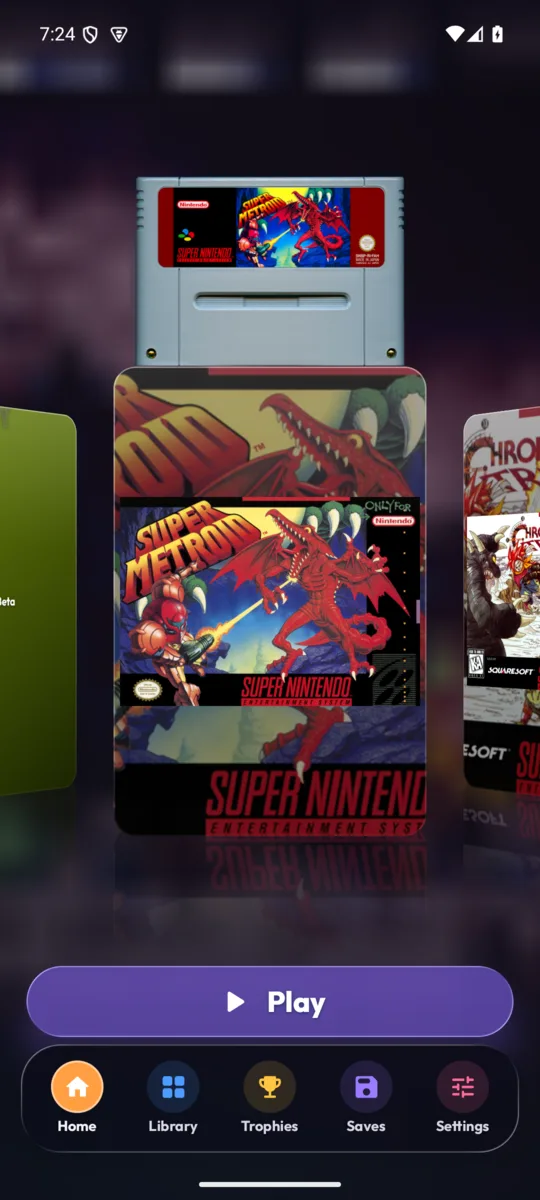
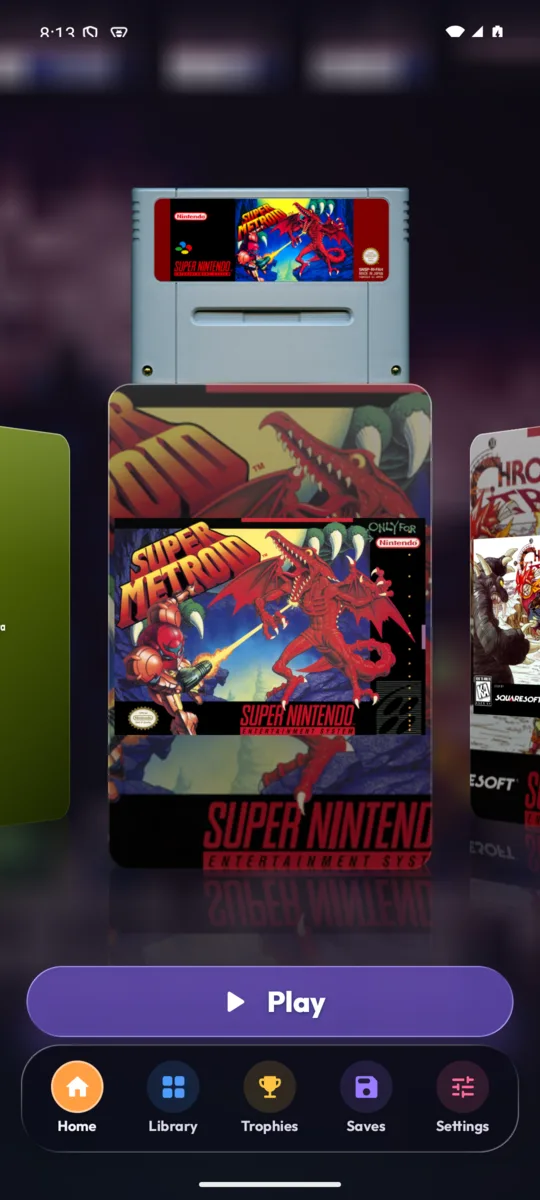
0.15.4: cover flow sits lower, shorter reflection strip

diff --git a/app/src/main/java/io/github/audxius/pillar/ui/screens/HomeCarousel.kt b/app/src/main/java/io/github/audxius/pillar/ui/screens/HomeCarousel.kt
@@ -210,7 +210,7 @@ fun HomeCarouselScreen() {
                     // headroom above for the disc or cartridge that rises out of the centre case.
                     val ratio = LocalSettings.current.coverShape.ratio()
                     val media = LocalSettings.current.coverFlowMedia
-                    val room = if (media) (maxHeight - 20.dp) / (1.12f + MEDIA_RISE) else (maxHeight - 20.dp) / 1.12f
+                    val room = if (media) (maxHeight - 20.dp) / (REFLECTION_ROOM + MEDIA_RISE) else (maxHeight - 20.dp) / REFLECTION_ROOM
                     val h = minOf(room, maxWidth * 0.6f / (ratio * 0.9f))
                     Carousel(ordered, listState, selectedIndex, h, coverFlow = true, onLongPress = { quick = it }, headroom = if (media) h * 0.9f * MEDIA_RISE else 0.dp)
                 }
@@ -376,7 +376,7 @@ private fun Carousel(games: List<Game>, state: LazyListState, selectedIndex: Int
     // Cover flow: WiiFlow-style 3D covers with reflections on a glossy floor.
     val coverH = if (coverFlow) itemHeight * 0.9f else itemHeight
     // The row clips what it draws, so the room for a rising disc or cartridge is part of it.
-    BoxWithConstraints(Modifier.fillMaxWidth().height(itemHeight * 1.12f + 8.dp + headroom).graphicsLayer()) {
+    BoxWithConstraints(Modifier.fillMaxWidth().height(itemHeight * (if (coverFlow) REFLECTION_ROOM else 1.12f) + 8.dp + headroom).graphicsLayer()) {
         // Side padding that lets the first and last cover sit in the middle.
         val side = ((maxWidth - coverH * settings.coverShape.ratio()) / 2).coerceAtLeast(0.dp)
         LazyRow(
@@ -459,6 +459,9 @@ private fun Carousel(games: List<Game>, state: LazyListState, selectedIndex: Int
 
 /** How far (in cover heights) the disc or cartridge rises above its case. */
 private const val MEDIA_RISE = 0.5f
+
+/** Cover flow height per cover height: the cover plus a short strip for its reflection. */
+private const val REFLECTION_ROOM = 1.05f
 
 /** The game's real disc or cartridge rising out of the top of its case once it settles in the middle. */
 @Composable
